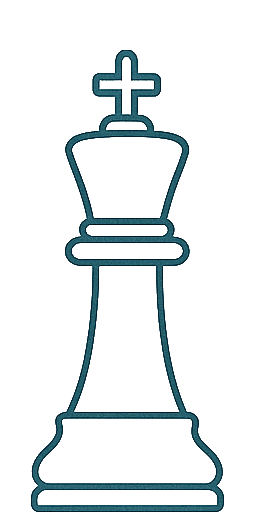
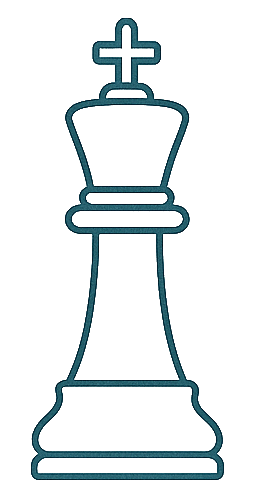
add other piece

Changed region(s): [[0.125, 0.0312, 0.875, 0.9688]]

diff --git a/src/main/java/fr/finkit/core/Board.java b/src/main/java/fr/finkit/core/Board.java
@@ -1,9 +1,6 @@
 package fr.finkit.core;
 
-import fr.finkit.Piece.PieceColor;
-import fr.finkit.Piece.Pawn;
-import fr.finkit.Piece.Piece;
-import fr.finkit.Piece.Position;
+import fr.finkit.Piece.*;
 
 import java.util.List;
 
@@ -31,14 +28,14 @@ public class Board {
     }
 
     private void initTerrain() {
-//        terrain[0][0] = new
-//        terrain[0][1] = new
-//        terrain[0][2] = new
-//        terrain[0][3] = new
-//        terrain[0][4] = new
-//        terrain[0][5] = new
-//        terrain[0][6] = new
-//        terrain[0][7] = new
+        terrain[0][0] = new Rook(PieceColor.BLACK);
+        terrain[0][1] = new Knight(PieceColor.BLACK);
+        terrain[0][2] = new Bishop(PieceColor.BLACK);
+        terrain[0][3] = new Queen(PieceColor.BLACK);
+        terrain[0][4] = new King(PieceColor.BLACK);
+        terrain[0][5] = new Bishop(PieceColor.BLACK);
+        terrain[0][6] = new Knight(PieceColor.BLACK);
+        terrain[0][7] = new Rook(PieceColor.BLACK);
 
         for (int col = 0; col < 8; col++) {
             terrain[1][col] = new Pawn(PieceColor.BLACK);
@@ -55,15 +52,15 @@ public class Board {
         for (int col = 0; col < 8; col++) {
             terrain[6][col] = new Pawn(PieceColor.WHITE);
         }
-//
-//        terrain[7][0] = new
-//        terrain[7][1] = new
-//        terrain[7][2] = new
-//        terrain[7][3] = new
-//        terrain[7][4] = new
-//        terrain[7][5] = new
-//        terrain[7][6] = new
-//        terrain[7][7] = new
+
+        terrain[7][0] = new Rook(PieceColor.WHITE);
+        terrain[7][1] = new Knight(PieceColor.WHITE);
+        terrain[7][2] = new Bishop(PieceColor.WHITE);
+        terrain[7][3] = new Queen(PieceColor.WHITE);
+        terrain[7][4] = new King(PieceColor.WHITE);
+        terrain[7][5] = new Bishop(PieceColor.WHITE);
+        terrain[7][6] = new Knight(PieceColor.WHITE);
+        terrain[7][7] = new Rook(PieceColor.WHITE);
     }
 
     public Piece getPiece(Position pos) {

diff --git a/src/main/java/fr/finkit/Piece/Bishop.java b/src/main/java/fr/finkit/Piece/Bishop.java
@@ -1,0 +1,18 @@
+package fr.finkit.Piece;
+
+import fr.finkit.core.Board;
+
+import java.util.List;
+
+public class Bishop extends Piece {
+    public Bishop(PieceColor pieceColor) {
+        super(pieceColor);
+        this.img = "Bishop.png";
+    }
+
+    @Override
+    public List<Position> getLegalMoves(Board board, Position position) {
+        return List.of();
+    }
+
+}

diff --git a/src/main/java/fr/finkit/Piece/Knight.java b/src/main/java/fr/finkit/Piece/Knight.java
@@ -1,0 +1,18 @@
+package fr.finkit.Piece;
+
+import fr.finkit.core.Board;
+
+import java.util.List;
+
+public class Knight extends Piece {
+    public Knight(PieceColor pieceColor) {
+        super(pieceColor);
+        this.img = "Knight.png";
+    }
+
+    @Override
+    public List<Position> getLegalMoves(Board board, Position position) {
+        return List.of();
+    }
+
+}

diff --git a/src/main/java/fr/finkit/Piece/Queen.java b/src/main/java/fr/finkit/Piece/Queen.java
@@ -1,0 +1,18 @@
+package fr.finkit.Piece;
+
+import fr.finkit.core.Board;
+
+import java.util.List;
+
+public class Queen extends Piece {
+    public Queen(PieceColor pieceColor) {
+        super(pieceColor);
+        this.img = "Queen.png";
+    }
+
+    @Override
+    public List<Position> getLegalMoves(Board board, Position position) {
+        return List.of();
+    }
+
+}

diff --git a/src/main/java/fr/finkit/Piece/King.java b/src/main/java/fr/finkit/Piece/King.java
@@ -1,0 +1,18 @@
+package fr.finkit.Piece;
+
+import fr.finkit.core.Board;
+
+import java.util.List;
+
+public class King extends Piece {
+    public King(PieceColor pieceColor) {
+        super(pieceColor);
+        this.img = "King.png";
+    }
+
+    @Override
+    public List<Position> getLegalMoves(Board board, Position position) {
+        return List.of();
+    }
+
+}

diff --git a/src/main/java/fr/finkit/Piece/Rook.java b/src/main/java/fr/finkit/Piece/Rook.java
@@ -1,0 +1,18 @@
+package fr.finkit.Piece;
+
+import fr.finkit.core.Board;
+
+import java.util.List;
+
+public class Rook extends Piece {
+    public Rook(PieceColor pieceColor) {
+        super(pieceColor);
+        this.img = "Rook.png";
+    }
+
+    @Override
+    public List<Position> getLegalMoves(Board board, Position position) {
+        return List.of();
+    }
+
+}

diff --git a/src/main/java/fr/finkit/gui/BoardView.java b/src/main/java/fr/finkit/gui/BoardView.java
@@ -161,8 +161,8 @@ public class BoardView {
         }
 
         ImageView iv = new ImageView(img);
-        iv.setPreserveRatio(true);
-        iv.setFitWidth(tileSize * 0.8);
+        iv.setPreserveRatio(false);
+        iv.setFitWidth(tileSize * 0.7);
         iv.setFitHeight(tileSize * 0.8);
         return new Group(iv);
     }
